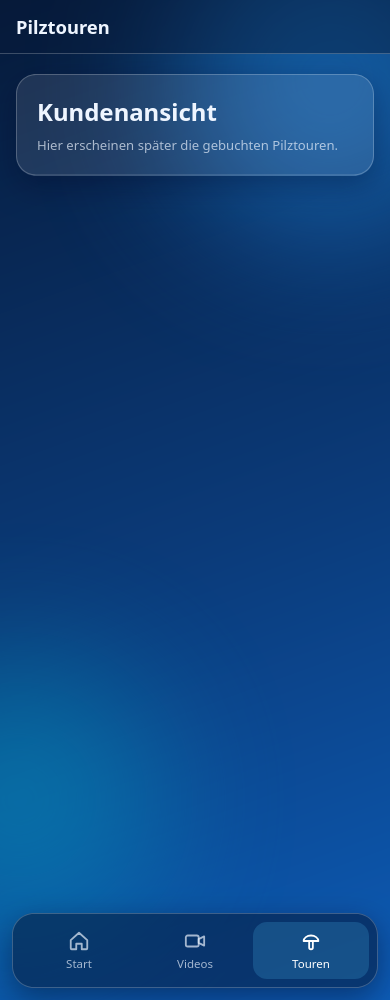
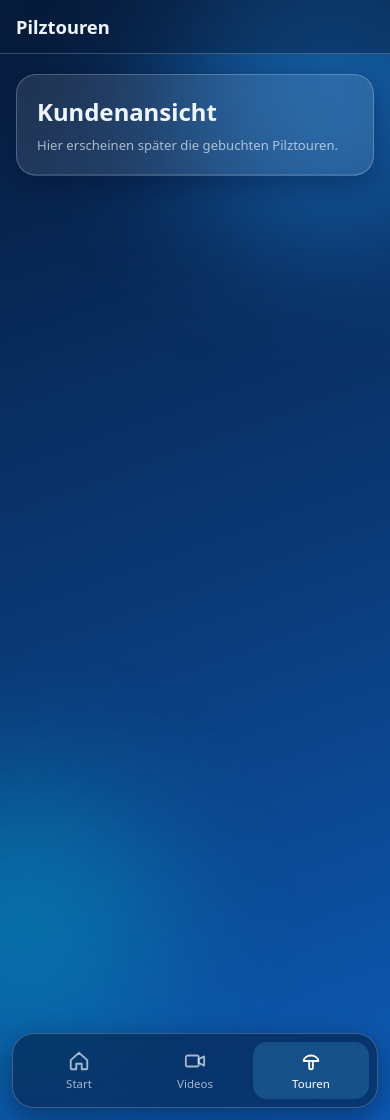
YouTube- und TikTok-Module (Testmodus), Titelfeld, Status pro Plattform

Changed region(s): [[0.0308, 0.0, 1.0, 0.186], [0.0308, 0.899, 0.9538, 0.992]]

diff --git a/server/index.js b/server/index.js
@@ -4,6 +4,8 @@ const path = require('path');
 const fs = require('fs');
 const crypto = require('crypto');
 const { publishReel } = require('./instagram');
+const { publishShort } = require('./youtube');
+const { publishTikTok } = require('./tiktok');
 
 // einfache .env-Unterstützung ohne Zusatzpaket
 const envFile = path.join(__dirname, '..', '.env');
@@ -29,7 +31,8 @@ const upload = multer({
   fileFilter: (req, file, cb) => cb(null, file.mimetype.startsWith('video/')),
 });
 
-const PUBLISHERS = { instagram: publishReel };
+const PUBLISHERS = { instagram: publishReel, youtube: publishShort, tiktok: publishTikTok };
+const NAMES = { instagram: 'Instagram', youtube: 'YouTube', tiktok: 'TikTok' };
 const jobs = new Map();
 
 const app = express();
@@ -41,33 +44,45 @@ app.post('/api/publish', upload.single('video'), (req, res) => {
   if (!req.file) return res.status(400).json({ error: 'Bitte eine Videodatei auswählen.' });
 
   const platforms = [].concat(req.body.platforms || []).filter(p => PUBLISHERS[p]);
-  if (!platforms.length) return res.status(400).json({ error: 'Keine gültige Plattform gewählt.' });
+  if (!platforms.length) {
+    fs.unlink(req.file.path, () => {});
+    return res.status(400).json({ error: 'Keine gültige Plattform gewählt.' });
+  }
 
-  const caption = [req.body.caption, req.body.tags].map(s => (s || '').trim()).filter(Boolean).join('\n\n');
+  const clean = v => (v || '').trim();
+  const title = clean(req.body.title);
+  const description = clean(req.body.description);
+  const tags = clean(req.body.tags);
+  const caption = [title, description, tags].filter(Boolean).join('\n\n');
   const base = process.env.PUBLIC_BASE_URL || `${req.protocol}://${req.get('host')}`;
   const videoUrl = `${base}/media/${req.file.filename}`;
 
   const id = crypto.randomBytes(6).toString('hex');
-  const job = { id, state: 'running', status: 'Wird gestartet …', results: {} };
+  const job = { id, state: 'running', steps: {} };
+  platforms.forEach(p => { job.steps[p] = { name: NAMES[p], state: 'waiting', text: 'Wartet …' }; });
   jobs.set(id, job);
   res.json({ jobId: id });
 
   (async () => {
-    try {
-      for (const p of platforms) {
-        job.results[p] = await PUBLISHERS[p]({
-          videoUrl, caption, onStatus: s => { job.status = s; },
+    for (const p of platforms) {
+      const step = job.steps[p];
+      step.state = 'running';
+      step.text = 'Wird gestartet …';
+      try {
+        await PUBLISHERS[p]({
+          videoUrl, filePath: req.file.path, title, description, tags, caption,
+          onStatus: s => { step.text = s; },
         });
+        step.state = 'done';
+        step.text = 'Veröffentlicht ✓';
+      } catch (err) {
+        console.error(`${NAMES[p]}:`, err);
+        step.state = 'error';
+        step.text = err.message;
       }
-      job.state = 'done';
-      job.status = 'Veröffentlicht.';
-    } catch (err) {
-      console.error(err);
-      job.state = 'error';
-      job.status = err.message;
-    } finally {
-      fs.unlink(req.file.path, () => {});
     }
+    job.state = Object.values(job.steps).every(s => s.state === 'done') ? 'done' : 'error';
+    fs.unlink(req.file.path, () => {});
   })();
 });
 

diff --git a/public/video.html b/public/video.html
@@ -30,8 +30,13 @@
       </div>
 
       <div class="field">
-        <label for="title">Beschreibung</label>
-        <textarea id="title" name="title" placeholder="Text für den Beitrag …"></textarea>
+        <label for="title">Titel</label>
+        <input type="text" id="title" name="title" maxlength="100" placeholder="Kurzer Titel (max. 100 Zeichen)" required>
+      </div>
+
+      <div class="field">
+        <label for="desc">Beschreibung</label>
+        <textarea id="desc" name="desc" placeholder="Text für den Beitrag …"></textarea>
       </div>
 
       <div class="field">
@@ -44,15 +49,15 @@
         <div class="platforms">
           <label class="platform">
             <input type="checkbox" name="platform" value="instagram" checked>
-            <span class="name">Instagram</span>
+            <span class="name">Instagram Reel</span>
           </label>
-          <label class="platform off">
-            <input type="checkbox" name="platform" value="youtube" disabled>
-            <span class="name">YouTube</span><span class="badge">Bald</span>
+          <label class="platform">
+            <input type="checkbox" name="platform" value="youtube" checked>
+            <span class="name">YouTube Short</span>
           </label>
-          <label class="platform off">
-            <input type="checkbox" name="platform" value="tiktok" disabled>
-            <span class="name">TikTok</span><span class="badge">Bald</span>
+          <label class="platform">
+            <input type="checkbox" name="platform" value="tiktok" checked>
+            <span class="name">TikTok</span>
           </label>
         </div>
       </div>
@@ -65,7 +70,7 @@
       <p class="status" id="status"></p>
     </form>
 
-    <p class="hint">Das Video wird auf deinen Server geladen und von dort automatisch veröffentlicht – du musst nichts weiter tun.</p>
+    <p class="hint">Das Video wird auf deinen Server geladen und von dort automatisch auf den gewählten Plattformen veröffentlicht. YouTube braucht den Titel, Instagram und TikTok bekommen Titel, Beschreibung und Hashtags als Text.</p>
   </main>
 </body>
 </html>

diff --git a/public/js/video.js b/public/js/video.js
@@ -54,13 +54,18 @@ function upload(formData) {
   });
 }
 
+const ICONS = { waiting: '…', running: '⏳', done: '✓', error: '✗' };
+
+function stepsText(job) {
+  return Object.values(job.steps).map(s => `${ICONS[s.state]} ${s.name}: ${s.text}`).join('\n');
+}
+
 async function waitForJob(jobId) {
   for (;;) {
     const res = await fetch(`/api/jobs/${jobId}`);
     const job = await res.json();
-    if (job.state === 'done') return job;
-    if (job.state === 'error') throw new Error(job.status);
-    setStatus(job.status);
+    if (job.state !== 'running') return job;
+    setStatus(stepsText(job));
     await new Promise(r => setTimeout(r, 2000));
   }
 }
@@ -74,7 +79,8 @@ form.addEventListener('submit', async (e) => {
 
   const data = new FormData();
   data.append('video', selectedFile);
-  data.append('caption', document.getElementById('title').value);
+  data.append('title', document.getElementById('title').value);
+  data.append('description', document.getElementById('desc').value);
   data.append('tags', document.getElementById('tags').value);
   chosen.forEach(p => data.append('platforms', p));
 
@@ -84,8 +90,8 @@ form.addEventListener('submit', async (e) => {
     const { jobId } = await upload(data);
     setProgress(null);
     setStatus('Wird verarbeitet …');
-    await waitForJob(jobId);
-    setStatus('Veröffentlicht ✓', 'ok');
+    const job = await waitForJob(jobId);
+    setStatus(stepsText(job), job.state === 'done' ? 'ok' : 'error');
   } catch (err) {
     setProgress(null);
     setStatus(err.message, 'error');

diff --git a/server/youtube.js b/server/youtube.js
@@ -1,0 +1,20 @@
+// YouTube-Modul: lädt ein Video als Short hoch (Data API v3, videos.insert).
+// YT_MODE=test simuliert alles. Der Live-Upload (OAuth) ist noch nicht eingerichtet.
+const { sleep } = require('./util');
+
+async function publishShort({ title, description, tags, onStatus }) {
+  if (!title) throw new Error('YouTube braucht einen Titel.');
+  if (title.length > 100) throw new Error('Der YouTube-Titel darf höchstens 100 Zeichen lang sein.');
+
+  if (process.env.YT_MODE !== 'live') {
+    onStatus('Testmodus: YouTube wird simuliert …');
+    await sleep(1500);
+    return { id: 'test-yt-' + Date.now(), test: true };
+  }
+
+  // Beschreibung enthält #Shorts, damit YouTube das Video als Short einordnet
+  void description; void tags;
+  throw new Error('YouTube-Live-Upload ist noch nicht eingerichtet (Google-Login fehlt).');
+}
+
+module.exports = { publishShort };

diff --git a/server/tiktok.js b/server/tiktok.js
@@ -1,0 +1,16 @@
+// TikTok-Modul: Content Posting API.
+// TT_MODE=test simuliert alles. Der Live-Upload (OAuth, App-Prüfung) ist noch nicht eingerichtet.
+const { sleep } = require('./util');
+
+async function publishTikTok({ caption, onStatus }) {
+  if (process.env.TT_MODE !== 'live') {
+    onStatus('Testmodus: TikTok wird simuliert …');
+    await sleep(1500);
+    return { id: 'test-tt-' + Date.now(), test: true };
+  }
+
+  void caption;
+  throw new Error('TikTok-Live-Upload ist noch nicht eingerichtet (Login und App-Prüfung fehlen).');
+}
+
+module.exports = { publishTikTok };

diff --git a/public/css/style.css b/public/css/style.css
@@ -223,3 +223,5 @@ main { width: 100%; max-width: 560px; margin: 0 auto; padding: 20px 16px; }
 .progress { height: 8px; border-radius: 999px; background: rgba(255,255,255,0.12); overflow: hidden; margin-top: 14px; display: none; }
 .progress.active { display: block; }
 .progress > div { height: 100%; width: 0; background: linear-gradient(90deg, var(--accent), #80d8ff); transition: width .15s linear; }
+
+.status { white-space: pre-line; }

diff --git a/server/instagram.js b/server/instagram.js
@@ -2,7 +2,7 @@
 // IG_MODE=test simuliert alles, ohne etwas zu posten.
 const GRAPH = 'https://graph.facebook.com/v21.0';
 
-const sleep = ms => new Promise(r => setTimeout(r, ms));
+const { sleep } = require('./util');
 
 async function graph(path, { method = 'GET', params = {} } = {}) {
   const url = new URL(GRAPH + path);

diff --git a/server/util.js b/server/util.js
@@ -1,0 +1,3 @@
+const sleep = ms => new Promise(r => setTimeout(r, ms));
+
+module.exports = { sleep };

diff --git a/README.md b/README.md
@@ -1,6 +1,6 @@
 # TourPost
 
-Handy-Web-App, um ein Video von unterwegs automatisch auf Instagram (später YouTube, TikTok) zu veröffentlichen. Das Smartphone ist die Fernbedienung, ein kleiner Node-Server übernimmt den Upload.
+Handy-Web-App, um ein Video von unterwegs automatisch als Instagram Reel, YouTube Short und auf TikTok zu veröffentlichen. Das Smartphone ist die Fernbedienung, ein kleiner Node-Server übernimmt den Upload.
 
 ## Einrichtung & Nutzung
 
@@ -16,7 +16,7 @@ npm start
 1. `./setup.sh` richtet alles ein und zeigt einen **QR-Code** für diesen Rechner.
 2. Mit der Handy-Kamera scannen. Die App öffnet sich im Browser.
 3. Optional „Zum Startbildschirm hinzufügen", dann startet sie wie eine App.
-4. „Video verteilen" → Video wählen, Text und Hashtags eintragen → „Absenden".
+4. „Video verteilen" → Video wählen, Titel, Text und Hashtags eintragen → Plattformen wählen → „Absenden".
 
 Lädt die Seite nicht? Dann `./setup.sh --firewall` ausführen und prüfen, dass das Handy im selben WLAN ist (nicht Mobilfunk, kein Gast-WLAN). Weitere Option: `./setup.sh --service` startet den Server automatisch mit dem Rechner.
 
@@ -37,9 +37,10 @@ Lädt die Seite nicht? Dann `./setup.sh --firewall` ausführen und prüfen, dass
 
 ## So funktioniert's
 
-1. Video in der App wählen, Beschreibung und Hashtags eintragen, „Absenden".
-2. Der Server stellt das Video kurz unter einer öffentlichen URL bereit.
-3. Instagram holt es ab und veröffentlicht es als Reel (Graph API), danach wird das Video gelöscht.
+1. Video in der App wählen, Titel, Beschreibung und Hashtags eintragen, Plattformen wählen, „Absenden".
+2. Der Server arbeitet die Plattformen nacheinander ab und zeigt den Status pro Plattform an.
+3. Instagram holt das Video über eine öffentliche URL ab und veröffentlicht es als Reel (Graph API). YouTube und TikTok bekommen die Datei direkt vom Server.
+4. Danach wird das Video auf dem Server gelöscht.
 
 Die geheimen Zugangsdaten liegen nur auf dem Server (`.env`), nie in der App.
 
@@ -48,7 +49,7 @@ Die geheimen Zugangsdaten liegen nur auf dem Server (`.env`), nie in der App.
 ```
 setup.sh  Einrichtung auf einem neuen Rechner
 public/   App (HTML, CSS, JS, PWA) – Hauptmenü, Video-Seite, Pilztouren-Platzhalter
-server/   Express-Server + Plattform-Module (instagram.js)
+server/   Express-Server + ein Modul pro Plattform (instagram.js, youtube.js, tiktok.js)
 scripts/  Hilfsskripte (QR-Code)
 docs/     Screenshots für die README
 ```
@@ -59,7 +60,9 @@ Neue Unterseiten werden in `public/js/nav.js` eingetragen, neue Plattformen als 
 
 | Variable | Bedeutung |
 |---|---|
-| `IG_MODE` | `test` simuliert nur, `live` postet wirklich |
+| `IG_MODE` | Instagram: `test` simuliert nur, `live` postet wirklich |
+| `YT_MODE` | YouTube: `test` oder `live` (Live noch nicht eingerichtet) |
+| `TT_MODE` | TikTok: `test` oder `live` (Live noch nicht eingerichtet) |
 | `IG_USER_ID` | Instagram-Business-/Creator-User-ID |
 | `IG_ACCESS_TOKEN` | langlebiges Meta-Access-Token |
 | `PUBLIC_BASE_URL` | öffentliche HTTPS-Adresse des Servers (z. B. Cloudflare Tunnel) |
@@ -69,11 +72,12 @@ Für den Live-Modus braucht es ein Instagram-Business- oder Creator-Konto, eine 
 
 ## Status
 
-Prototyp. Testmodus läuft, der Live-Upload ist noch nicht mit einem echten Konto getestet. Es gibt noch keinen Zugangsschutz – den Server nicht ungeschützt ins Internet stellen.
+Prototyp. Alle drei Plattformen laufen im Testmodus (Upload, Status pro Plattform, Fehlermeldungen). Live ist bisher nur Instagram programmiert, aber noch nicht mit einem echten Konto getestet. YouTube (Google-Login) und TikTok (Login, App-Prüfung) sind noch nicht angebunden. Es gibt noch keinen Zugangsschutz – den Server nicht ungeschützt ins Internet stellen.
 
 ## Geplant
 
-- Zugangsschutz
+- Instagram live testen, danach YouTube und TikTok anbinden
+- Videoprüfung vor dem Upload (Format, Länge, Seitenverhältnis)
 - Videos im Voraus hochladen und planen
-- YouTube und TikTok
+- Zugangsschutz
 - Kundenansicht für gebuchte Pilztouren
